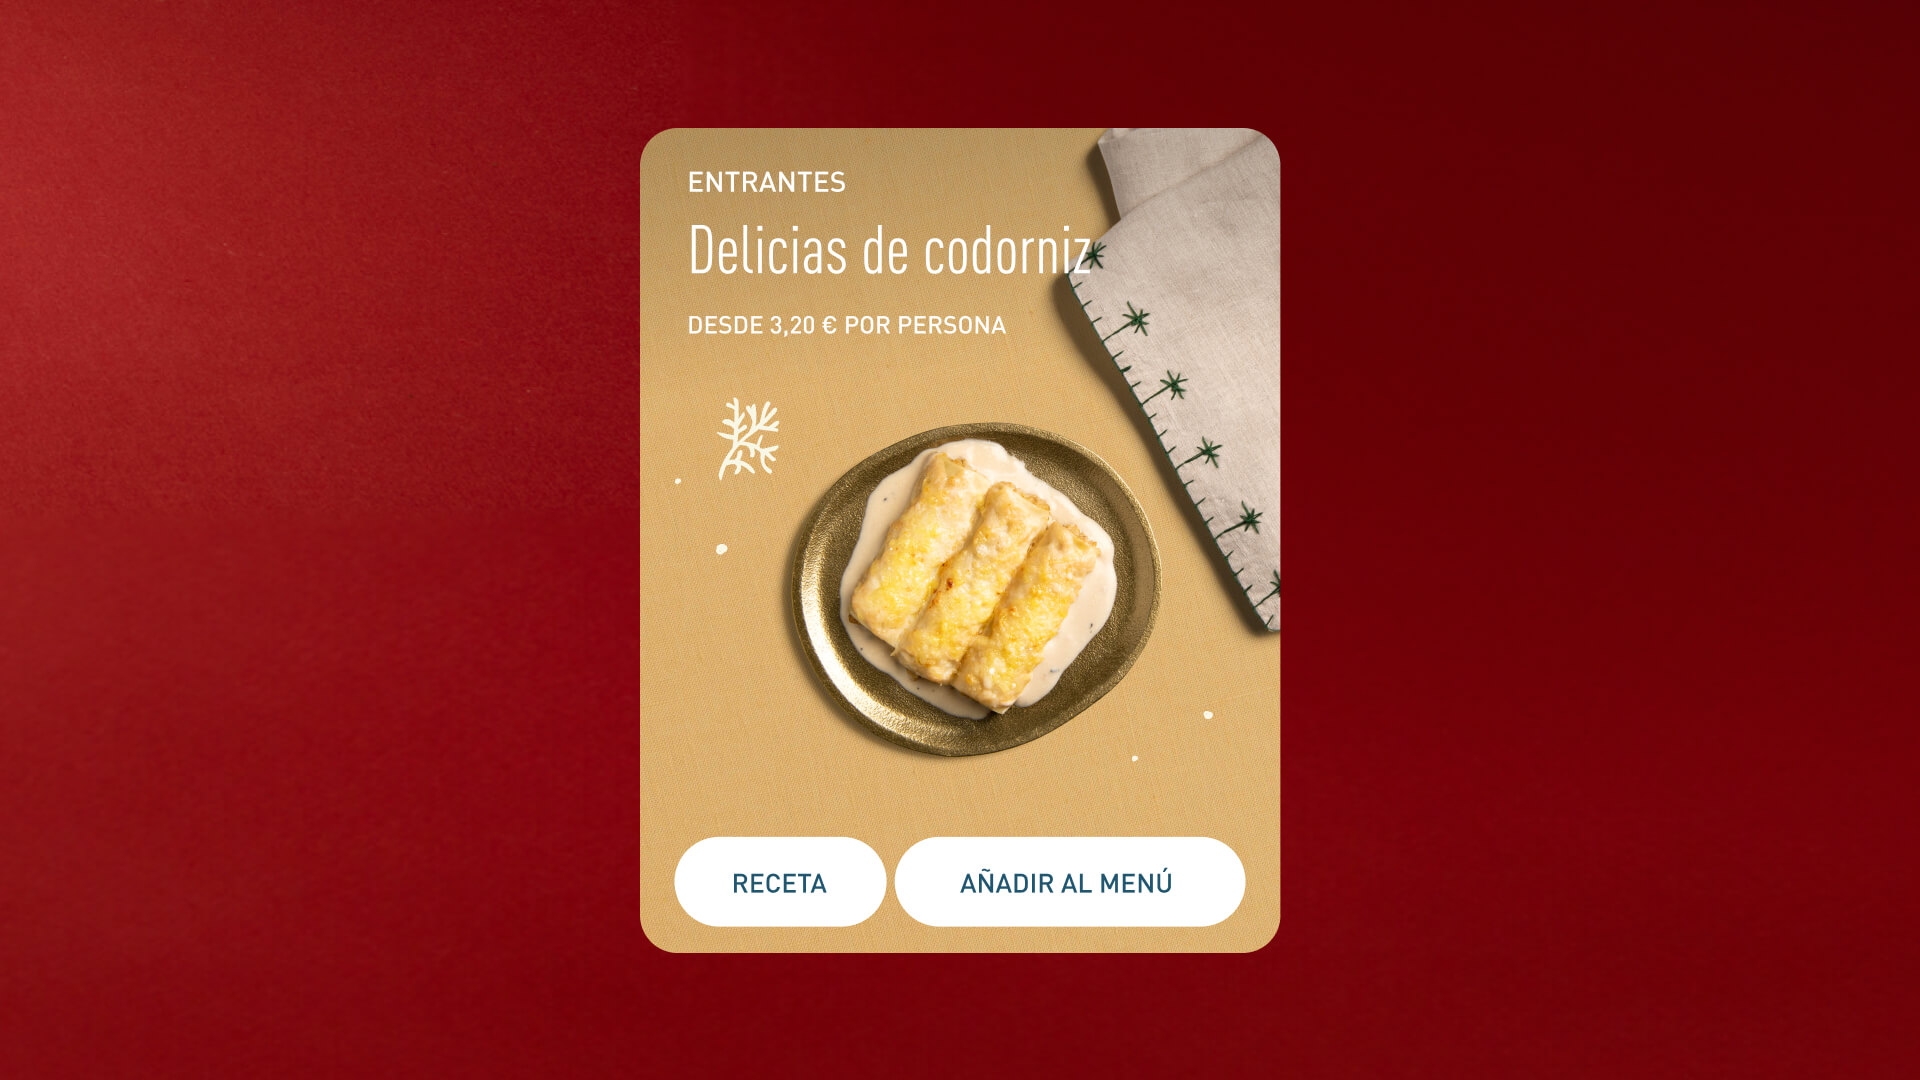
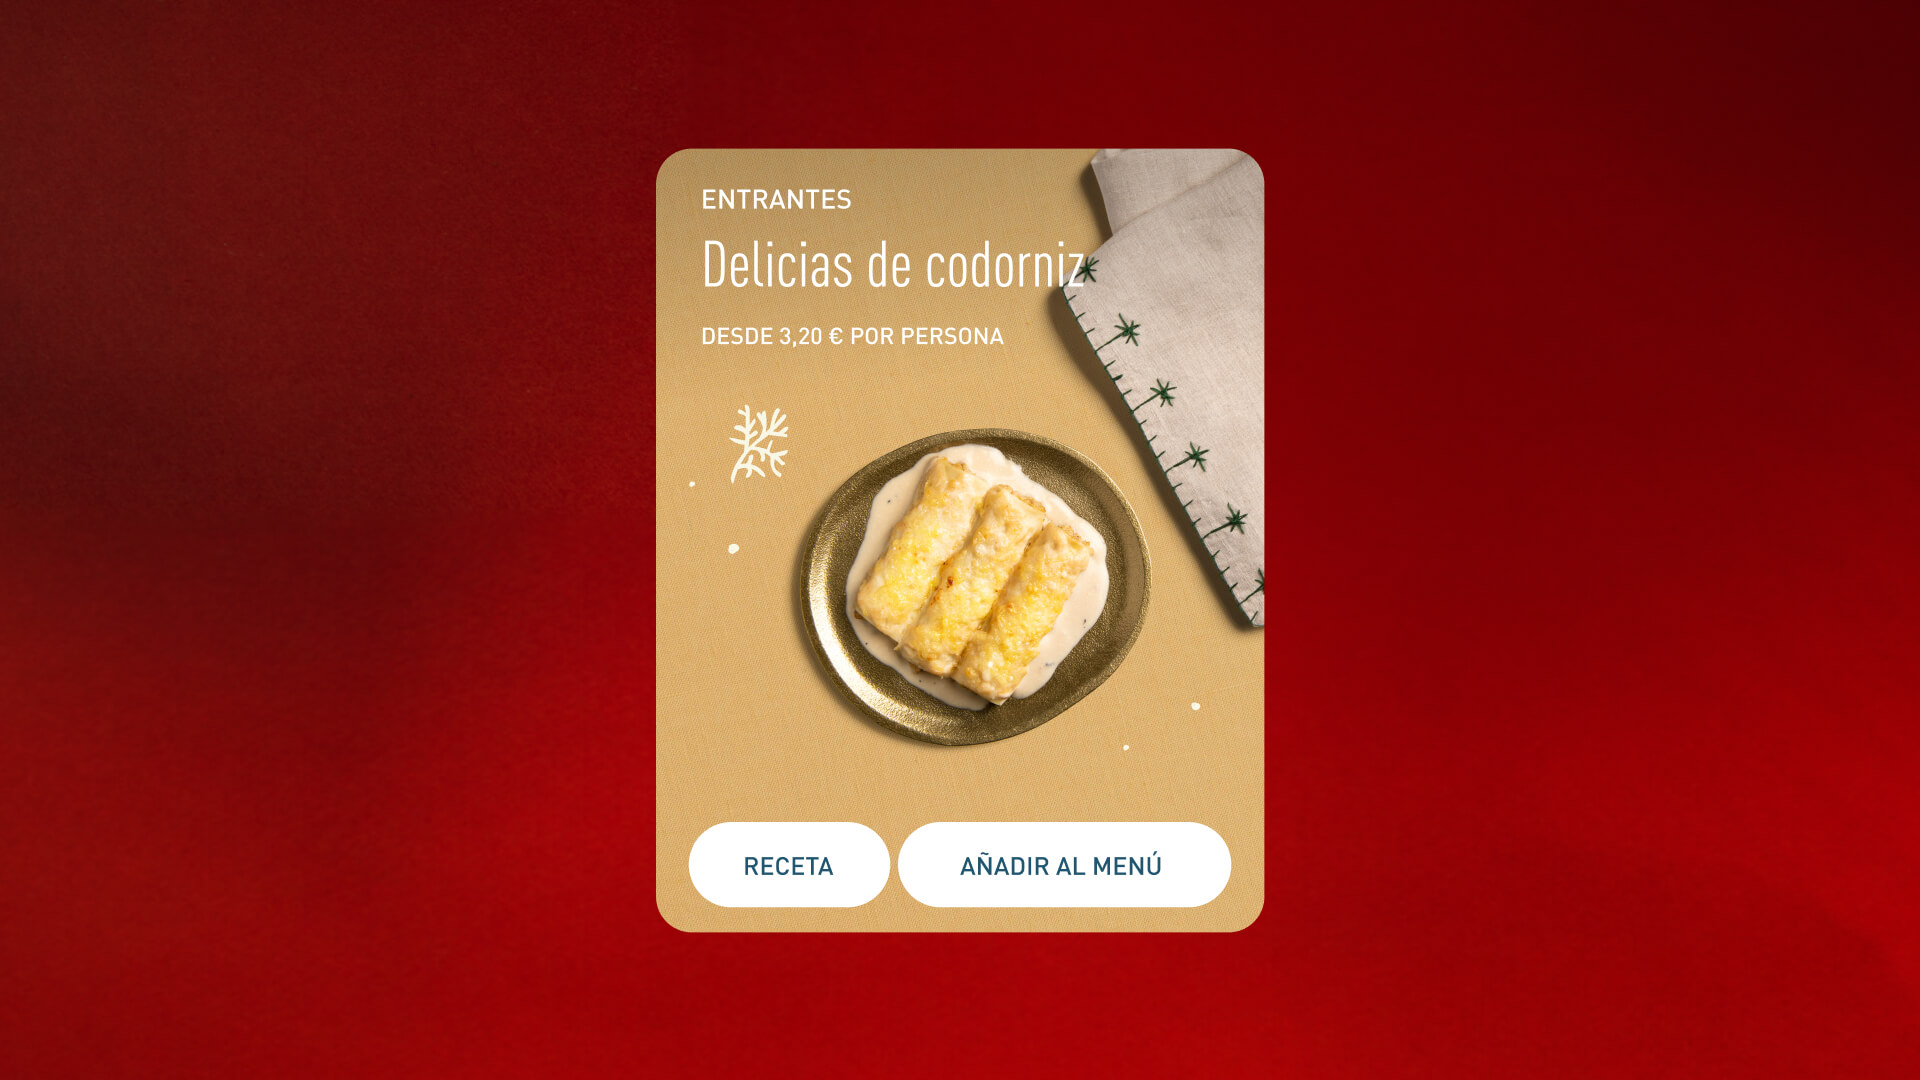
Portada ALDI Planner: zoom de la imagen 1 a 1,1x y nuevas imágenes 5 y 6

diff --git a/js/scripts.js b/js/scripts.js
@@ -217,7 +217,7 @@ window.PlannerCover = (function($) {
 
 	var CFG = {
 		zoomMs: 3000,                               // imagen 1: zoom progresivo
-		zoomTo: 1.2,                                //   hasta 1,2x el tamaño original
+		zoomTo: 1.1,                                //   hasta 1,1x el tamaño original
 		zoomEase: 'cubic-bezier(.37,0,.63,1)',
 		holdMs: 1500,                               // pausa en las imágenes 5 y 6
 		holdSlideMs: 1000,                          // pausa en las imágenes 2, 3 y 4
